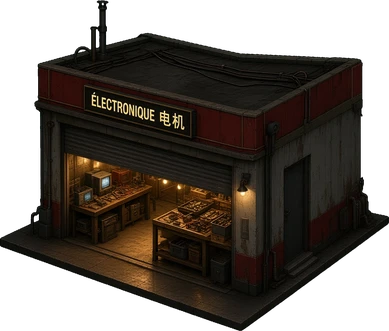
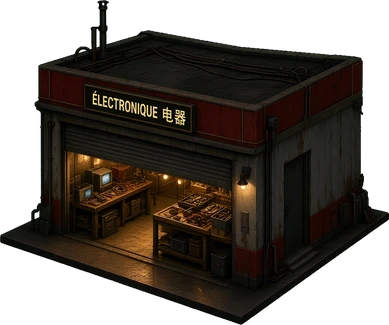
Asia-Ground rév. 2 : enseigne Okafor 电器, étal de poisson régénéré et wok sur plaque (judge OK), verts des caisses de légumes conservés

diff --git a/tools_asiaground.py b/tools_asiaground.py
@@ -17,18 +17,18 @@ LT = {
  'ag_restaurant_b': ('gen_ag_restaurant_b.jpg', [8.0, 6.0], 10.0, 'variante : échoppe de nouilles NOUILLES 面馆'),
  'ag_halle_module': ('gen_ag_halle_module.jpg', [8.0, 16.0], 3.0, 'module de la halle du marché (travée répétable, toit à deux pans)'),
  'ag_boutique': ('gen_ag_boutique.jpg', [6.0, 5.0], 4.0, 'boutique Lau, pharmacie PHARMACIE 药房'),
- 'ag_boutique_b': ('gen_ag_boutique_b.jpg', [6.0, 5.0], 4.0, 'variante : électronique Okafor ÉLECTRONIQUE (idéogrammes 电机, cf. critique)'),
+ 'ag_boutique_b': ('gen_ag_boutique_b2.jpg', [6.0, 5.0], 4.0, 'variante : électronique Okafor ÉLECTRONIQUE (enseigne corrigée 电器, rév. 2)'),
  'ag_bureau': ('gen_ag_bureau.jpg', [6.0, 5.0], 7.0, 'bureau des emplacements EMPLACEMENTS 摊位 (Zhou / Seng)'),
  'ag_escalier': ('gen_ag_escalier.jpg', [8.0, 14.0], 10.0, 'Mille Marches, large escalier vers Center-Town, caméra IO en haut'),
  'ag_monte_charge': ('gen_ag_monte_charge.jpg', [4.0, 4.0], 9.0, 'monte-charge de quai (Cour des Porteurs)'),
  'ag_stand_nouilles': ('gen_ag_stand_nouilles.jpg', [2.5, 1.5], 2.5, 'stand de nouilles, vapeur'),
- 'ag_stand_poisson': ('MAQ:Props-v6.png:543,84,1020,506', [2.0, 1.2], 1.3, 'étal de poisson et caisses (maquette Props-v6)'),
+ 'ag_stand_poisson': ('gen_ag_stand_poisson.jpg', [3.5, 3.0], 1.1, 'étal de poisson sur socle, glace, balance, caisses (rév. 2 générée : la version maquette Props-v6 était écrasée par le cisaillement)'),
  'ag_stand_pieces': ('MAQ:street-detail-v9.png:1038,520,1499,988', [4.0, 2.0], 2.2, 'étal de pièces détachées sous bâche (maquette street-detail-v9)'),
  'ag_lanterne_cable': ('gen_ag_lanterne_cable.jpg', [5.0, 1.0], 3.0, 'câble à lanternes rouges entre deux poteaux'),
  'ag_auvent': ('gen_ag_auvent.jpg', [5.0, 2.5], 2.4, 'auvent de toile sur perches'),
  'ag_caisses_legumes': ('gen_ag_caisses_legumes.jpg', [1.2, 0.8], 0.7, 'caisses de légumes'),
  'ag_glaciere': ('gen_ag_glaciere.jpg', [1.0, 0.6], 0.9, 'glacière à poisson sur palette'),
- 'ag_wok': ('gen_ag_wok.jpg', [1.0, 1.0], 1.8, 'wok sur brasero (fût découpé)'),
+ 'ag_wok': ('gen_ag_wok2.jpg', [1.0, 1.0], 0.9, 'wok sur brasero (fût découpé) sur plaque carrée rivetée (rév. 2 : arêtes v4 mesurables)'),
  'ag_chariot': ('MAQ:props-v9-domestic.png:554,127,1009,432', [1.8, 0.9], 1.0, 'charrette à bras (maquette props-v9-domestic)'),
  'ag_hautparleur_io': ('gen_ag_hautparleur_io.jpg', [0.6, 0.6], 4.5, 'haut-parleur IO sur poteau'),
  'ag_neon_io': ('gen_ag_neon_io.jpg', [1.2, 0.3], 1.0, 'néon IO cyan, le seul cyan du quartier (au-dessus du marché)'),
@@ -57,7 +57,8 @@ def zcut(rgba, f0, f1, tz=0.70):
     right = np.zeros((H, W - x2, 4), np.uint8); right[dy:] = rgba[:H - dy, x2:]
     m = right[..., 3] > 0; seg = out[:, x1:]; seg[m] = right[m]
     return TI.clean(out, 200)
-NOFIX = {'ag_wok', 'ag_hautparleur_io', 'ag_stand_poisson'}  # révolution ; étal de poisson : sprite de maquette déjà à l angle du jeu, le cisaillement l écrasait
+NOFIX = {'ag_hautparleur_io'}  # révolution ; étal de poisson : sprite de maquette déjà à l angle du jeu, le cisaillement l écrasait
+KEEPGREEN = {'ag_caisses_legumes'}  # légumes : despill limité à la bande de bord (4 px), verts intérieurs conservés
 FULLDESPILL = {'ag_stand_nouilles', 'ag_wok', 'ag_monte_charge'}  # vapeur / halo verdis par le fond : despill complet
 def load_maq(spec):
     _, f, bb = spec.split(':'); x0, y0, x1, y1 = map(int, bb.split(','))
@@ -88,7 +89,7 @@ def build(aid):
     # modifiait ~90 % des pixels (gris neutres légèrement verts assombris), créait de faux contours (tôle ondulée) et faisait basculer judge.
     from scipy import ndimage
     p = rgba[..., :3].astype(float); op = rgba[..., 3] > 0; ex = p[..., 1] - np.maximum(p[..., 0], p[..., 2])
-    m = (op & ~ndimage.binary_erosion(op, iterations=4)) | (ex > 8)
+    m = (op & ~ndimage.binary_erosion(op, iterations=4)) | ((ex > 8) & (aid not in KEEPGREEN))
     p[..., 1] = np.where(m, np.minimum(p[..., 1], np.maximum(p[..., 0], p[..., 2]) * 1.05 + 2), p[..., 1]); rgba = rgba.copy(); rgba[..., :3] = p.astype('uint8')
     if aid in FULLDESPILL: p = rgba[..., :3].astype(float); p[..., 1] = np.minimum(p[..., 1], np.maximum(p[..., 0], p[..., 2])); rgba[..., :3] = p.astype('uint8')
     if aid in NOFIX: fix = {'v4fix': 'non applicable (' + ('maquette déjà à l angle' if aid == 'ag_stand_poisson' else 'révolution') + ')', 'pentes_apres': [None, None]}

diff --git a/docs/ASSETS_CATALOGUE.md b/docs/ASSETS_CATALOGUE.md
@@ -311,20 +311,20 @@ Source : `PLAN_IMPLEMENTATION.md` §2, fiche `ASIA_GROUND.md`, planche validée 
 | `ag_restaurant_b` | **généré** | `art-gen/gen_ag_restaurant_b.jpg` | 8 × 6 | 10 | 500×667 | [330, 666] | oui | True | 10.02 |
 | `ag_halle_module` | **généré** | `art-gen/gen_ag_halle_module.jpg` | 8 × 16 | 3 | 783×551 | [330, 550] | oui | True | 2.84 |
 | `ag_boutique` | **généré** | `art-gen/gen_ag_boutique.jpg` | 6 × 5 | 4 | 389×330 | [247, 329] | oui | True | 3.41 |
-| `ag_boutique_b` | **généré** | `art-gen/gen_ag_boutique_b.jpg` | 6 × 5 | 4 | 389×331 | [247, 330] | oui | True | 3.43 |
+| `ag_boutique_b` (rév. 2) | **généré** | `art-gen/gen_ag_boutique_b2.jpg` | 6 × 5 | 4 | 389×325 | [247, 324] | oui | True | 3.29 |
 | `ag_bureau` | **généré** | `art-gen/gen_ag_bureau.jpg` | 6 × 5 | 7 | 389×440 | [247, 439] | oui | True | 5.92 |
 | `ag_escalier` | **généré** | `art-gen/gen_ag_escalier.jpg` | 8 × 14 | 10 | 726×866 | [330, 865] | oui | True | 10.93 |
 | `ag_monte_charge` | **généré** | `art-gen/gen_ag_monte_charge.jpg` | 4 × 4 | 9 | 278×545 | [165, 544] | oui | True | 9.39 |
 | `ag_stand_nouilles` | **généré** | `art-gen/gen_ag_stand_nouilles.jpg` | 2.5 × 1.5 | 2.5 | 145×164 | [103, 163] | oui | True | 2.28 |
-| `ag_stand_poisson` | **maquette** | `reference/maquette/No-Mans-Land_Reconstruction/07_MAQUETTE_ARCHIVE_v0.13/art-source/Props-v6.png 543,84,1020,506` | 2 × 1.2 | 1.3 | 116×103 | [82, 102] | non | None | 1.18 |
+| `ag_stand_poisson` (rév. 2) | **généré** | `art-gen/gen_ag_stand_poisson.jpg` | 3.5 × 3 | 1.1 | 229×154 | [144, 153] | oui | True | 1.08 |
 | `ag_stand_pieces` | **maquette** | `reference/maquette/No-Mans-Land_Reconstruction/07_MAQUETTE_ARCHIVE_v0.13/art-source/street-detail-v9.png 1038,520,1499,988` | 4 × 2 | 2.2 | 221×182 | [165, 181] | oui | True | 1.99 |
 | `ag_lanterne_cable` | **généré** | `art-gen/gen_ag_lanterne_cable.jpg` | 5 × 1 | 3 | 234×212 | [206, 211] | oui | True | 2.84 |
 | `ag_auvent` | **généré** | `art-gen/gen_ag_auvent.jpg` | 5 × 2.5 | 2.4 | 277×218 | [206, 217] | oui | True | 2.29 |
-| `ag_caisses_legumes` | **généré** | `art-gen/gen_ag_caisses_legumes.jpg` | 1.2 × 0.8 | 0.7 | 72×48 | [49, 47] | oui | True | 0.36 |
+| `ag_caisses_legumes` (rév. 2) | **généré** | `art-gen/gen_ag_caisses_legumes.jpg` | 1.2 × 0.8 | 0.7 | 72×48 | [49, 47] | oui | True | 0.36 |
 | `ag_glaciere` | **généré** | `art-gen/gen_ag_glaciere.jpg` | 1 × 0.6 | 0.9 | 58×57 | [41, 56] | oui | True | 0.72 |
-| `ag_wok` | **généré** | `art-gen/gen_ag_wok.jpg` | 1 × 1 | 1.8 | 70×113 | [41, 112] | non | None | 1.82 |
+| `ag_wok` (rév. 2) | **généré** | `art-gen/gen_ag_wok2.jpg` | 1 × 1 | 0.9 | 70×71 | [41, 70] | oui | True | 0.86 |
 | `ag_chariot` | **maquette** | `reference/maquette/No-Mans-Land_Reconstruction/07_MAQUETTE_ARCHIVE_v0.13/art-source/props-v9-domestic.png 554,127,1009,432` | 1.8 × 0.9 | 1 | 100×49 | [74, 48] | oui | True | 0.15 |
 | `ag_hautparleur_io` | **généré** | `art-gen/gen_ag_hautparleur_io.jpg` | 0.6 × 0.6 | 4.5 | 42×166 | [25, 165] | oui | None | 3.33 |
 | `ag_neon_io` | **généré** | `art-gen/gen_ag_neon_io.jpg` | 1.2 × 0.3 | 1 | 58×57 | [49, 56] | oui | False | 0.79 |
 
-Maquette réutilisée (origine `reference/maquette/No-Mans-Land_Reconstruction/07_MAQUETTE_ARCHIVE_v0.13/art-source/`, étalonnage nuit) : `ag_stand_poisson` (Props-v6), `ag_stand_pieces` (street-detail-v9), `ag_chariot` (props-v9-domestic). Réserves : `ag_wok` et `ag_stand_poisson` refusés par judge (objet de révolution / maquette non cisaillée) ; `ag_chariot` hauteur implicite non significative (objet bas et long) ; `ag_boutique_b` idéogrammes 电机 (« moteurs ») au lieu de 电器 ; légumes de `ag_caisses_legumes` désaturés par le despill.
+Maquette réutilisée (origine `reference/maquette/No-Mans-Land_Reconstruction/07_MAQUETTE_ARCHIVE_v0.13/art-source/`, étalonnage nuit) : `ag_stand_pieces` (street-detail-v9), `ag_chariot` (props-v9-domestic). Rév. 2 : `ag_boutique_b` enseigne corrigée ÉLECTRONIQUE 电器 (retouche par régénération de la même image, `gen_ag_boutique_b2.jpg`, mêmes px/pivot en largeur, hauteur 331 → 325 px) ; `ag_stand_poisson` régénéré sur socle (la version maquette Props-v6, écrasée par le cisaillement, est abandonnée) ; `ag_wok` posé sur une plaque carrée rivetée (arêtes v4 mesurables) ; `ag_caisses_legumes` despill limité à la bande de bord, verts des légumes conservés. Réserve restante : `ag_chariot` hauteur implicite non significative (objet bas et long).
